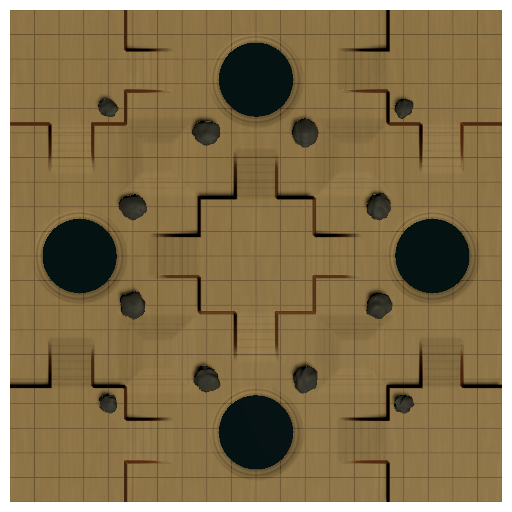
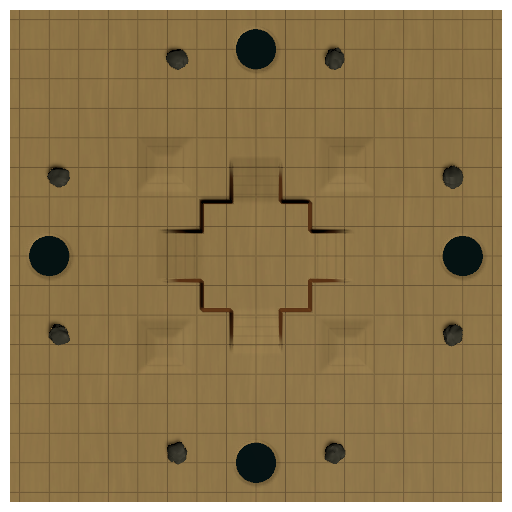
Remake the landscape for an early fight: ten a side instead of twelve, the sides starting on the level ground of its corners, the front rows 3.7 from the middle and the nearest pieces of two neighbours 4.2 apart (in a shot's reach; they were nine apart on raised corners, with a pond between), small 

diff --git a/Assets/Scripts/Core/BoardTerrain.cs b/Assets/Scripts/Core/BoardTerrain.cs
@@ -4,14 +4,19 @@ using UnityEngine;
 using UnityEngine.Rendering;
 
 // The landscape board's ground (BoardType.Landscape): a relief carved from
-// one block of wood, twelve units a side, four times the go board and more,
-// too big to see whole from above. Every corner holds a side's base, a
-// raised step; between the corners, a pond by each edge's middle; in the
-// middle a raised mesa; ramps up onto the steps (off a step's edge a piece
-// drops to the ground below and plays on, back up only by a ramp); low
-// mounds on the low ground and rocks to hide behind. The same at every
-// corner, turned, so no seat is better than another. A piece that goes
-// into a pond is out, as one off the edge is.
+// one block of wood, ten units a side, three and a half times the go
+// board's, too big to see whole from above. The sides start on the level
+// ground of its corners, near enough the next corner's to reach it in a
+// shot. In the middle a raised mesa, ramps up onto it from the edges'
+// middles (off its edge a piece drops to the ground below and plays on,
+// back up only by a ramp) - the closing circle (ZoneRule) ends round it; a
+// low mound before each corner, small ponds by the edges' middles and rocks
+// beside them to hide behind. The same at every corner, turned, so no seat
+// is better than another. A piece that goes into a pond is out, as one off
+// the edge is.
+//
+// (Twelve a side at first, the sides on raised corners nine apart with a
+// pond between each two: the first knock came rounds into a match.)
 //
 // Every face of it is flat (the mounds are cut, the banks straight down to
 // the water), and what the pieces touch is boxes and a few large faces, not
@@ -25,28 +30,28 @@ using UnityEngine.Rendering;
 // scripts in any order: the AI's.)
 public class BoardTerrain : MonoBehaviour
 {
-    public const float Half = 6f;
-    public const float Step = 0.32f;          // a base's or the mesa's height over the ground: over any piece's, so none climbs it
+    public const float Half = 5f;
+    public const float Step = 0.24f;          // the mesa's height over the ground: over any piece's, so none climbs it
     private const float Cell = 0.04f;         // the drawn ground, on a grid this fine: a step's edge lies on its lines
-    private const float BaseIn = 3.2f;        // a base: where both |x| and |z| are at least this
-    private const float MesaHalf = 1.4f;
-    private const float RampLength = 1.2f;    // 15 degrees up
-    private const float PondAt = 4.3f;        // a pond's middle from the board's, along x or z
-    private const float PondRadius = 0.85f;
-    private const float Bank = 0.3f;          // round a pond the ground slopes down into it
-    private const float BankDepth = 0.14f;   // deep enough at the rim that the water hides where the ground ends
-    // A mound in every quarter: its middle this far along both axes, flat on
-    // top, its four faces sloping down to the ground.
-    private const float MoundAt = 2.4f;
-    private const float MoundHeight = 0.14f;
-    private const float MoundTop = 0.35f;     // half the top's side
-    private const float MoundFoot = 0.95f;    // half the foot's
-    // Rocks in one quarter (x, z, radius, height), mirrored into the others.
+    private const float MesaHalf = 1.1f;
+    private const float RampLength = 0.9f;    // 15 degrees up
+    private const float RampHalf = 0.5f;      // half a ramp's width
+    private const float PondAt = 4.2f;        // a pond's middle from the board's, along x or z: by the edge, off the way between two corners
+    private const float PondRadius = 0.35f;
+    private const float Bank = 0.12f;         // round a pond the ground slopes down into it
+    private const float BankDepth = 0.07f;    // deep enough at the rim that the water hides where the ground ends
+    // A mound in every quarter, before its corner: its middle this far along
+    // both axes, flat on top, its four faces sloping down to the ground.
+    private const float MoundAt = 1.85f;
+    private const float MoundHeight = 0.1f;
+    private const float MoundTop = 0.2f;      // half the top's side
+    private const float MoundFoot = 0.55f;    // half the foot's
+    // Rocks in one quarter (x, z, radius, height), mirrored into the others:
+    // either side of each pond.
     private static readonly Vector4[] Rocks =
     {
-        new Vector4(1.2f, 3.0f, 0.3f, 0.42f),
-        new Vector4(3.0f, 1.2f, 0.3f, 0.42f),
-        new Vector4(3.6f, 3.6f, 0.22f, 0.36f),
+        new Vector4(4.0f, 1.6f, 0.2f, 0.3f),
+        new Vector4(1.6f, 4.0f, 0.2f, 0.3f),
     };
 
     public Material groundMaterial;
@@ -98,16 +103,11 @@ public class BoardTerrain : MonoBehaviour
     // In the first quarter (x, z at least 0); pond: how far from the nearest pond's middle.
     private static float Ground(float x, float z, float pond)
     {
-        // A base, and its two ramps down toward its neighbours.
-        if (x >= BaseIn && z >= BaseIn) return Step;
-        var low = BaseIn - RampLength;
-        if (z >= 4f && z <= 5f && x >= low && x < BaseIn) return Step * (x - low) / RampLength;
-        if (x >= 4f && x <= 5f && z >= low && z < BaseIn) return Step * (z - low) / RampLength;
-        // The mesa, and its four ramps out toward the ponds.
+        // The mesa, and its four ramps out toward the edges' middles.
         if (x <= MesaHalf && z <= MesaHalf) return Step;
         var foot = MesaHalf + RampLength;
-        if (z <= 0.5f && x > MesaHalf && x <= foot) return Step * (foot - x) / RampLength;
-        if (x <= 0.5f && z > MesaHalf && z <= foot) return Step * (foot - z) / RampLength;
+        if (z <= RampHalf && x > MesaHalf && x <= foot) return Step * (foot - x) / RampLength;
+        if (x <= RampHalf && z > MesaHalf && z <= foot) return Step * (foot - z) / RampLength;
         // The low ground: the mounds, and the banks down into the ponds.
         var square = Mathf.Max(Mathf.Abs(x - MoundAt), Mathf.Abs(z - MoundAt));
         var h = MoundHeight * Mathf.Clamp01((MoundFoot - square) / (MoundFoot - MoundTop));
@@ -117,9 +117,8 @@ public class BoardTerrain : MonoBehaviour
 
     // ---- Building it ----
 
-    // The ground over what's left of the board (playable: a square, smaller
-    // as the edge crumbles), its sides down to the board's foot, the ponds'
-    // water and the rocks, under slab.
+    // The ground over the board (playable: a square), its sides down to the
+    // board's foot, the ponds' water and the rocks, under slab.
     public void Build(Transform slab, BoardShape playable, float thickness, PhysicsMaterial physics, Material side)
     {
         var rect = playable.Bounds;
@@ -197,9 +196,9 @@ public class BoardTerrain : MonoBehaviour
 
     // ---- What the pieces touch ----
 
-    // The bases and the mesa as boxes, the ramps as tilted boxes, the mounds
-    // as cut pyramids, the low ground and the ponds' banks as one mesh of
-    // large faces (it runs on under the rest), each with the board's grip.
+    // The mesa as a box, the ramps as tilted boxes, the mounds as cut
+    // pyramids, the low ground and the ponds' banks as one mesh of large
+    // faces (it runs on under the rest), each with the board's grip.
     private static void Solids(Transform slab, float thickness, PhysicsMaterial physics)
     {
         var solids = new GameObject("Solids").transform;
@@ -235,18 +234,11 @@ public class BoardTerrain : MonoBehaviour
 
         Block("Mesa", Rect.MinMaxRect(-MesaHalf, -MesaHalf, MesaHalf, MesaHalf));
         var foot = MesaHalf + RampLength;
-        var rampLow = BaseIn - RampLength;
         foreach (var sx in new[] { 1f, -1f })
         foreach (var sz in new[] { 1f, -1f })
-        {
-            Block("Base", Rect.MinMaxRect(Mathf.Min(sx * BaseIn, sx * Half), Mathf.Min(sz * BaseIn, sz * Half), Mathf.Max(sx * BaseIn, sx * Half), Mathf.Max(sz * BaseIn, sz * Half)));
-            // The base's two ramps, down toward its neighbours.
-            Ramp(new Vector2(sx * rampLow, sz * 4.5f), new Vector2(sx * BaseIn, sz * 4.5f), 1f);
-            Ramp(new Vector2(sx * 4.5f, sz * rampLow), new Vector2(sx * 4.5f, sz * BaseIn), 1f);
             Mound(Add<MeshCollider>("Mound"), new Vector2(sx * MoundAt, sz * MoundAt));
-        }
         foreach (var way in new[] { Vector2.right, Vector2.left, Vector2.up, Vector2.down })
-            Ramp(way * foot, way * MesaHalf, 1f);
+            Ramp(way * foot, way * MesaHalf, RampHalf * 2);
         var low = Add<MeshCollider>("Ground");
         low.sharedMesh = LowGround();
     }
@@ -276,7 +268,7 @@ public class BoardTerrain : MonoBehaviour
     // to the water, and the water (nothing: a piece falls through).
     private static Mesh LowGround()
     {
-        const float around = 1.2f; // half a pond's square
+        const float around = 0.55f; // half a pond's square: past its bank, inside the board
         const int segments = 32;   // round a pond: a multiple of four, a point at each square side's middle
         var lines = new[] { -Half, -PondAt - around, -PondAt + around, -around, around, PondAt - around, PondAt + around, Half };
         var vertices = new List<Vector3>();
@@ -399,8 +391,7 @@ public class BoardTerrain : MonoBehaviour
         for (var i = 0; i < vertices.Length; i++)
         {
             var v = vertices[i].normalized;
-            var bump = 0.8f + 0.4f * Mathf.PerlinNoise(v.x * 1.7f + seed, v.z * 1.7f + v.y * 1.3f + seed);
-            vertices[i] = v * (0.5f * bump);
+            vertices[i] = v * (0.5f * Bump(v, seed));
         }
         var mesh = new Mesh { name = "Rock" };
         mesh.vertices = vertices;
@@ -421,8 +412,31 @@ public class BoardTerrain : MonoBehaviour
         renderer.sharedMaterial = rockMaterial;
         renderer.shadowCastingMode = ShadowCastingMode.On;
         var solid = rock.AddComponent<MeshCollider>();
-        solid.sharedMesh = mesh;
+        solid.sharedMesh = Hull(seed);
         solid.convex = true;
         solid.sharedMaterial = physics;
+    }
+
+    private static float Bump(Vector3 way, float seed) => 0.8f + 0.4f * Mathf.PerlinNoise(way.x * 1.7f + seed, way.z * 1.7f + way.y * 1.3f + seed);
+
+    // A rock's collider: the same lumps on a coarse ball. The hull of the
+    // drawn one had more faces than PhysX takes, and it cut it short.
+    private static Mesh Hull(float seed)
+    {
+        const int rings = 6, round = 10;
+        var points = new List<Vector3> { Vector3.up * (0.5f * Bump(Vector3.up, seed)), Vector3.down * (0.5f * Bump(Vector3.down, seed)) };
+        for (var ring = 1; ring < rings; ring++)
+        for (var k = 0; k < round; k++)
+        {
+            var down = ring * Mathf.PI / rings;
+            var about = k * Mathf.PI * 2 / round;
+            var way = new Vector3(Mathf.Sin(down) * Mathf.Cos(about), Mathf.Cos(down), Mathf.Sin(down) * Mathf.Sin(about));
+            points.Add(way * (0.5f * Bump(way, seed)));
+        }
+        var mesh = new Mesh { name = "Rock hull" };
+        mesh.SetVertices(points);
+        // Any faces over all the points: a convex collider is their hull.
+        mesh.SetTriangles(Enumerable.Range(0, (points.Count + 2) / 3 * 3).Select(i => i % points.Count).ToArray(), 0);
+        return mesh;
     }
 }

diff --git a/Assets/Editor/BoardBuilder.cs b/Assets/Editor/BoardBuilder.cs
@@ -360,15 +360,18 @@ internal static class BoardBuilder
         variant.parts = new[] { BoardPart.Rect(Rect.MinMaxRect(-half, -half, half, half)) };
         variant.uvRect = Rect.MinMaxRect(-half, -half, half, half);
         variant.physics = go.physics;
+        // The rows well in from the corner (a corner is half the diagonal,
+        // 7.07, from the middle): the front one 3.7 from the middle, its
+        // ends 4.2 from the next corner's.
         variant.multiSpacing = 0.34f;
-        variant.multiFront = 2.1f;
-        variant.multiBack = 1.6f;
+        variant.multiFront = 3.39f;
+        variant.multiBack = 2.9f;
         variant.sceneLayouts = false;
         // The corners: south-west, north-west, north-east, south-east.
         variant.seats2 = new[] { 315f, 135f };
         variant.seats3 = new[] { 315f, 225f, 135f };
         variant.seats4 = new[] { 315f, 225f, 135f, 45f };
-        variant.zoneDepth = 0.42f;
+        variant.zoneDepth = 0.55f;
 
         var ground = AssetDatabase.LoadAssetAtPath<Material>($"{BoardsDir}/Landscape.mat");
         if (ground == null)
